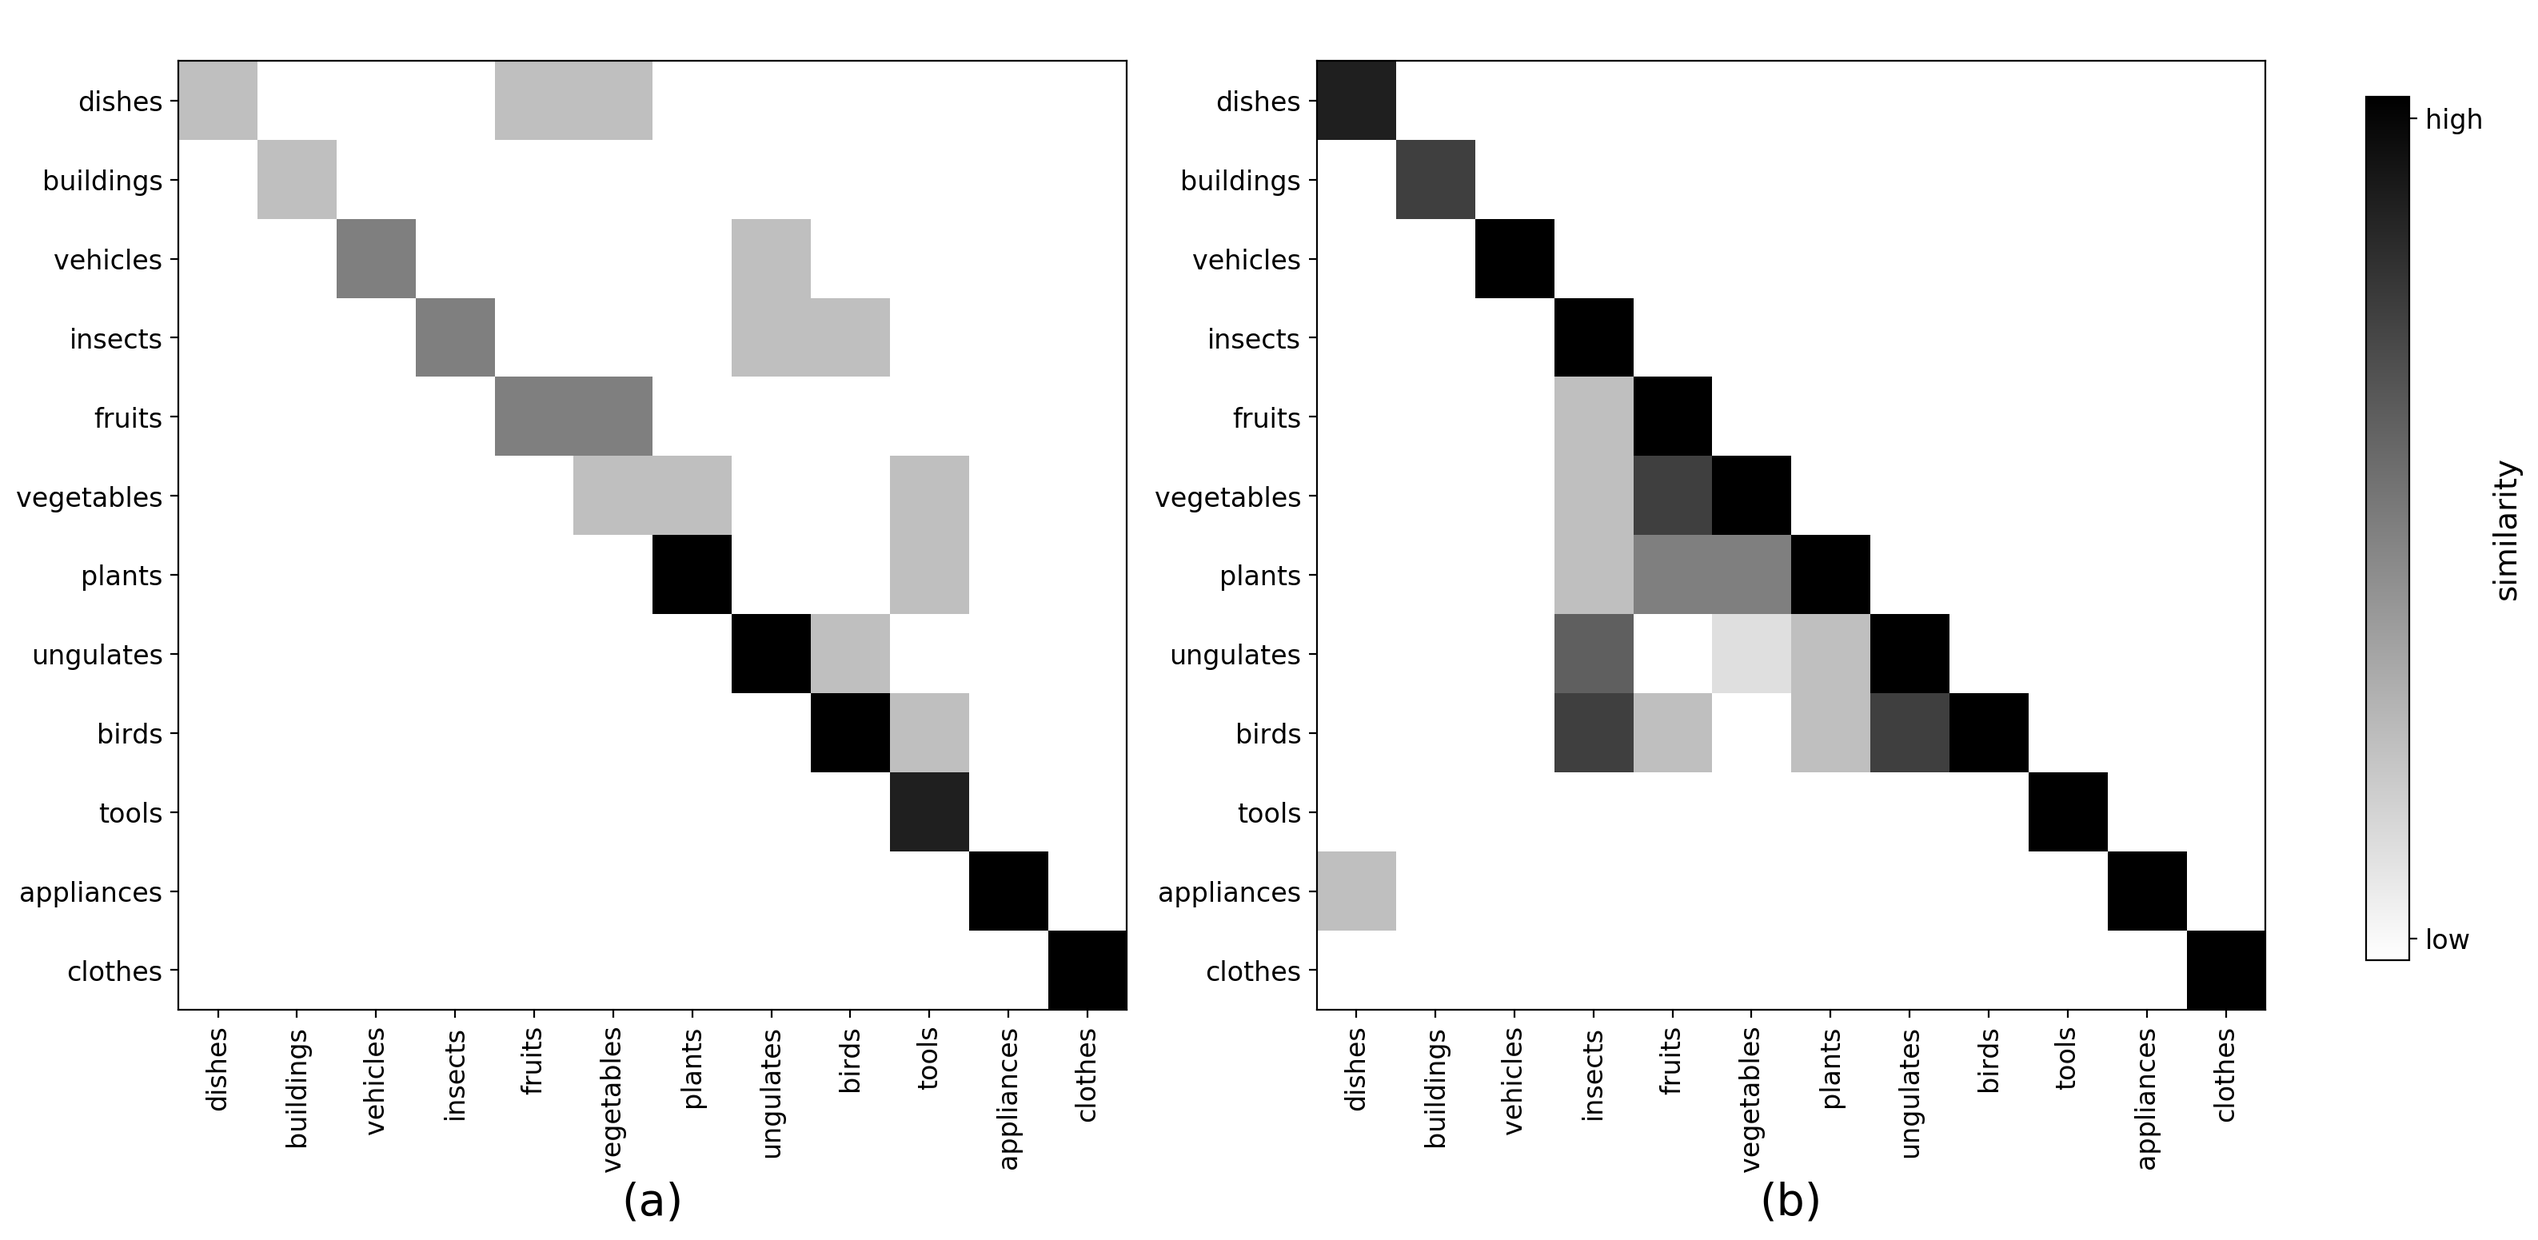
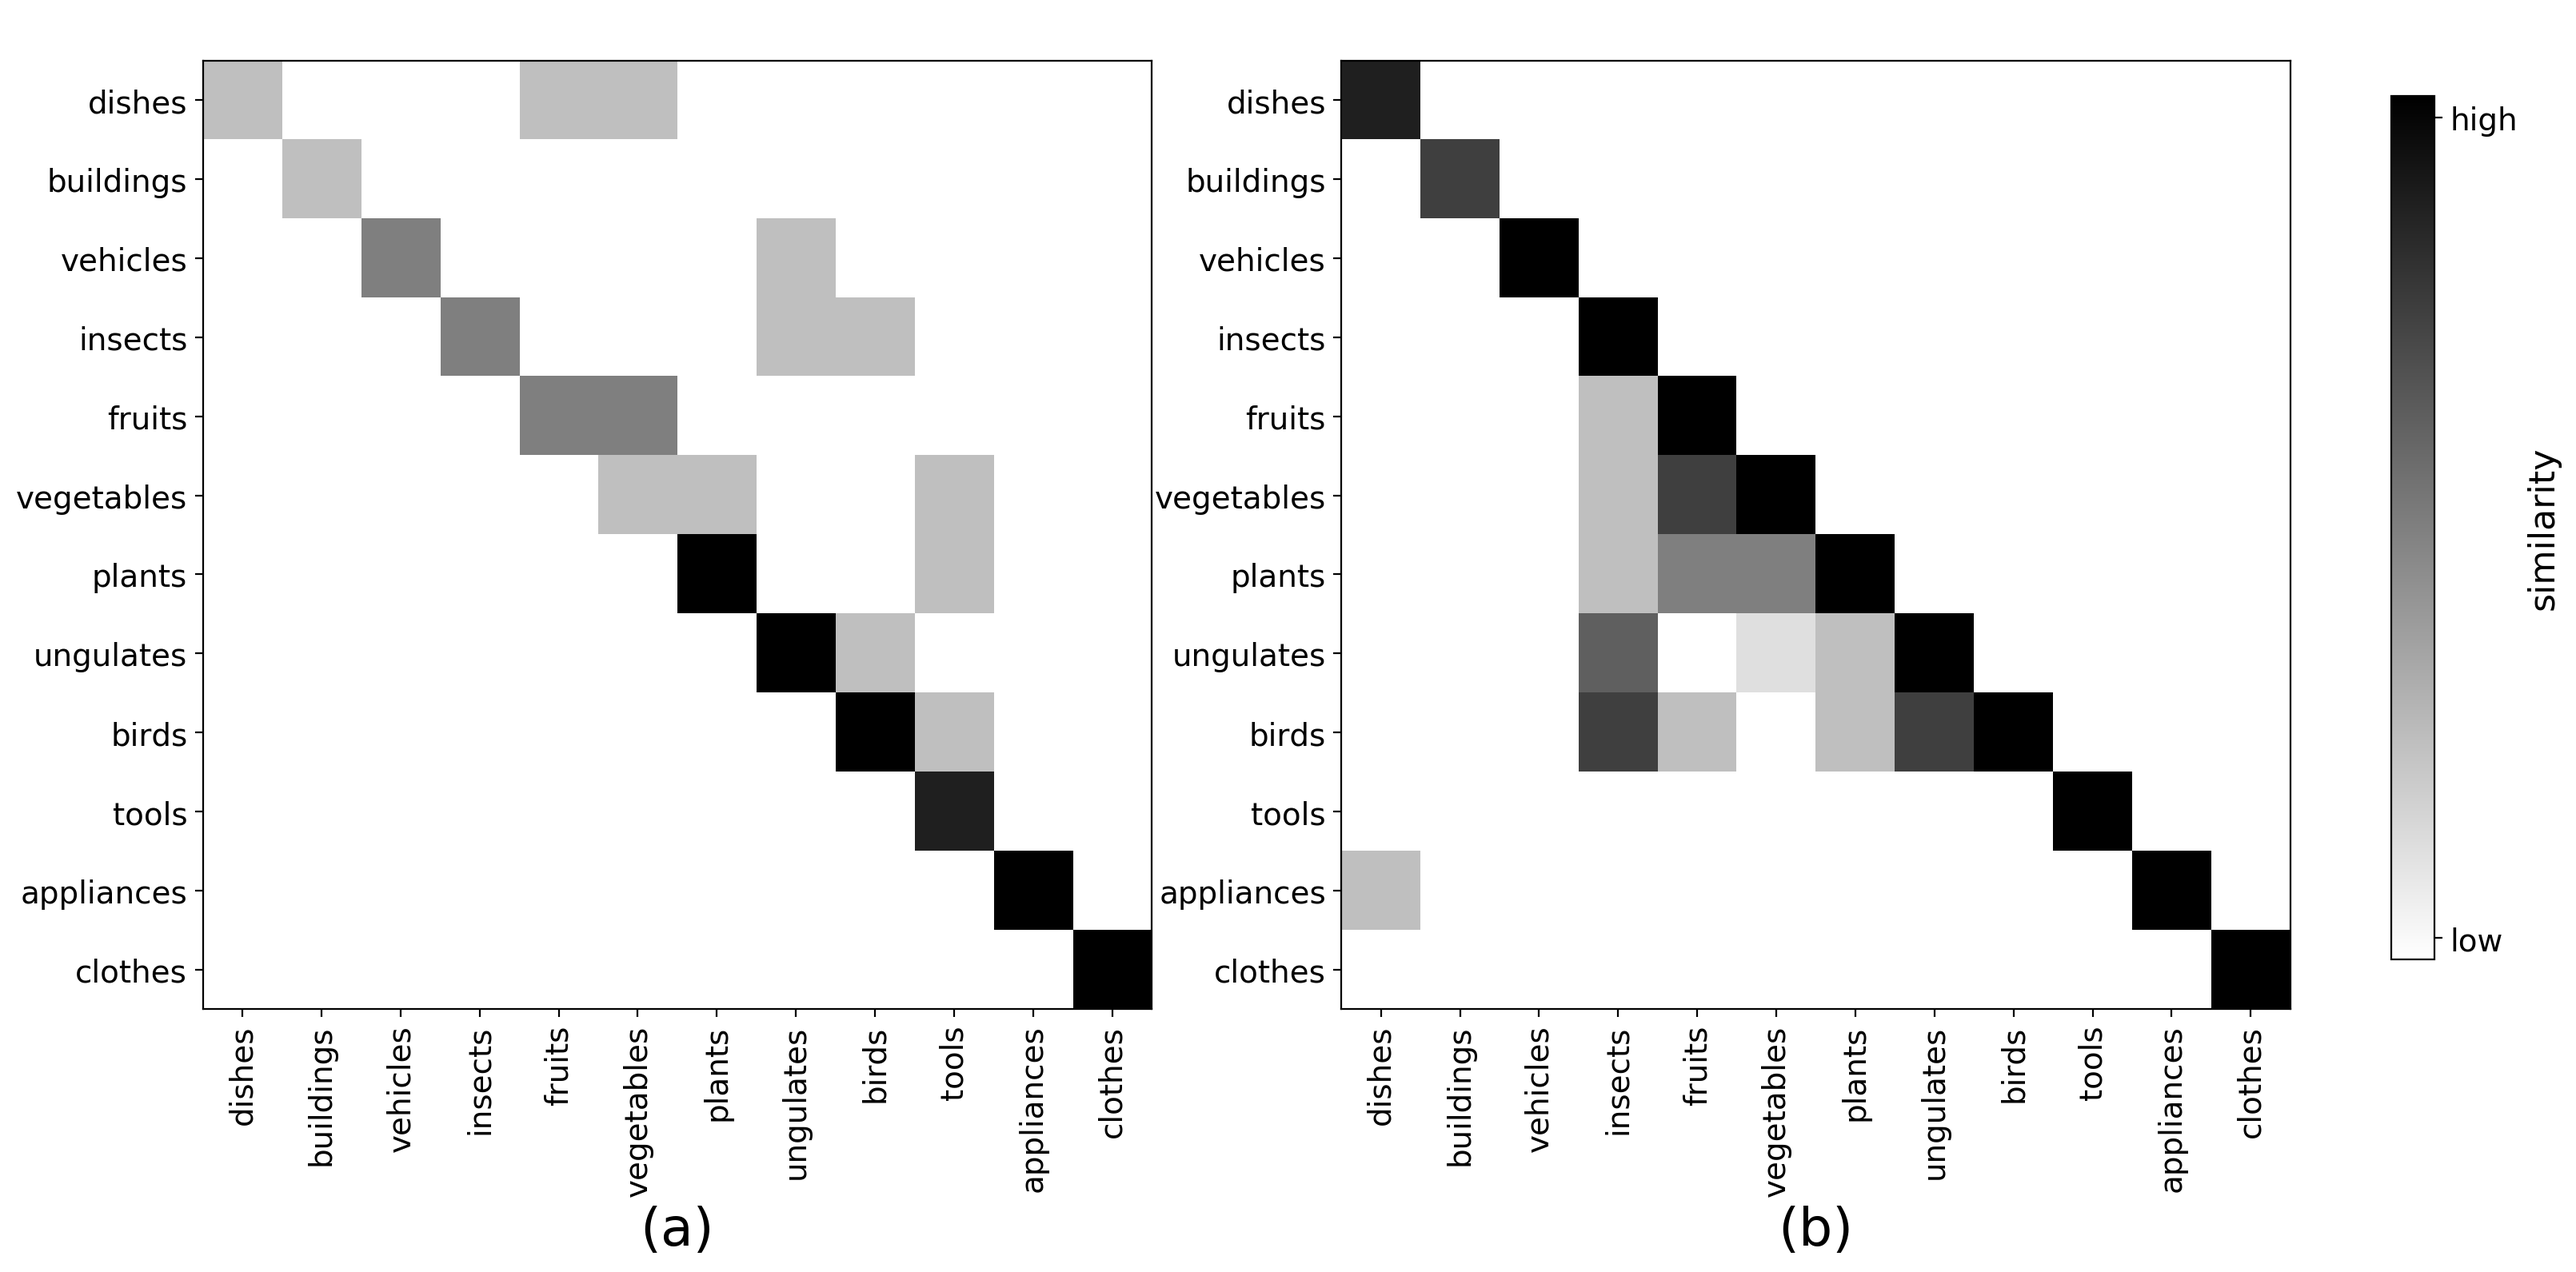
added option of using dissimilarities to plot_similarity_matrices.py

diff --git a/code/mds/data_analysis/plot_similarity_matrices.py b/code/mds/data_analysis/plot_similarity_matrices.py
@@ -17,6 +17,7 @@ parser.add_argument('second_similarity_file', help = 'the input file containing 
 parser.add_argument('output_folder', help = 'the folder where the plots will be stored')
 parser.add_argument('-f', '--first_name', help = 'name of the first set of similarity ratings', default = 'first study')
 parser.add_argument('-s', '--second_name', help = 'name of the second set of similarity ratings', default = 'second study')
+parser.add_argument('-d', '--dissimilarities', action = 'store_true', help = 'use dissimilarities instead of similarities for the scatter plot')
 args = parser.parse_args()
 
 # merge the two given matrices
@@ -105,8 +106,8 @@ ax_cats_second = fig_cats.add_subplot(121)
 ax_cats_first = fig_cats.add_subplot(122)
 
 # add heatmaps for category matrices
-make_heatmap(ax_cats_first, category_matrix_first, category_names)
-make_heatmap(ax_cats_second, category_matrix_second, category_names)
+make_heatmap(ax_cats_first, category_matrix_first, category_names, 14)
+make_heatmap(ax_cats_second, category_matrix_second, category_names, 14)
 
 ax_cats_second.set_xlabel("(a)", fontsize = 24)
 ax_cats_first.set_xlabel("(b)", fontsize = 24)
@@ -122,6 +123,11 @@ output_file_name_heatmap_cats = os.path.join(args.output_folder, 'heatmap_{0}_{1
 fig_cats.savefig(output_file_name_heatmap_cats, bbox_inches='tight', dpi=200)
 
 
+# replace item matrix with dissimilarities if necessary!
+if args.dissimilarities:
+    first_item_matrix = first_input_data['dissimilarities']
+    second_item_matrix = second_input_data['dissimilarities']
+
 # transform item-based similarity matrices into vectors for scatter plot
 first_vector = np.reshape(first_item_matrix, (-1,1)) 
 second_vector = np.reshape(second_item_matrix, (-1,1)) 
@@ -136,9 +142,14 @@ ax.tick_params(axis="x", labelsize=16)
 ax.tick_params(axis="y", labelsize=16)
 ax.scatter(u[:,0],u[:,1],s = s(c))
 
-plt.xlabel('{0} Similarity'.format(args.first_name), fontsize = 20)
-plt.ylabel('{0} Similarity'.format(args.second_name), fontsize = 20)
-plt.title('Scatter Plot of {0} and {1} Similarity'.format(args.first_name, args.second_name), fontsize = 20)
+if args.dissimilarities:
+    plt.xlabel('{0} Dissimilarity'.format(args.first_name), fontsize = 20)
+    plt.ylabel('{0} Dissimilarity'.format(args.second_name), fontsize = 20)
+    plt.title('Scatter Plot of {0} and {1} Dissimilarity'.format(args.first_name, args.second_name), fontsize = 20)
+else:
+    plt.xlabel('{0} Similarity'.format(args.first_name), fontsize = 20)
+    plt.ylabel('{0} Similarity'.format(args.second_name), fontsize = 20)
+    plt.title('Scatter Plot of {0} and {1} Similarity'.format(args.first_name, args.second_name), fontsize = 20)
 
 # store the overall scatter plot
 output_file_name_scatter = os.path.join(args.output_folder, 'scatter_{0}_{1}.png'.format(args.first_name, args.second_name))        

diff --git a/README.md b/README.md
@@ -285,13 +285,14 @@ Here, `conceptual.pickle` and `visual.pickle` are the corresponding output files
 
 #### 2.2.4 Creating Visualizations of the Similarity Matrices
 
-In order to visualize the similarity matrices, one can use the script `plot_similarity_matrices.py`. This script compares two sets of aggregated similarity ratings, given as `first.pickle` and `second.pickle` (output of `aggregate_similarities.py`). It creates one item-based heatmap (below diagonal: first set of similarities, above diagonal: second set of similarities) and two category-based heatmaps (same structure), and stores them as a single image `output_folder/heatmap_First_Second.png`. Moreover, it creates a scatter plot of the values in the two matrices and stores them as `output_folder/scatter_First_Second.png`. The script can be invoked as follows:
+In order to visualize the similarity matrices, one can use the script `plot_similarity_matrices.py`. This script compares two sets of aggregated similarity ratings, given as `first.pickle` and `second.pickle` (output of `aggregate_similarities.py`). It creates one item-based heatmap (below diagonal: first set of similarities, above diagonal: second set of similarities) and two category-based heatmaps (same structure), and stores them as a two separate images `output_folder/heatmap_First_Second_items.png` and `output_folder/heatmap_First_Second_categories.png`. Moreover, it creates a scatter plot of the values in the two matrices and stores them as `output_folder/scatter_First_Second.png`. The script can be invoked as follows:
 ```
 python -m code.mds.preprocessing.plot_similarity_matrices path/to/first.pickle path/to/second.pickle path/to/output_folder/
 ```
 It takes the following optional arguments:
 - `-f` or `--first_name`: Descriptive name for the first set of similarities (defaults to 'First').
 - `-s` or `--second_name`: Descriptive name for the second set of similarities (defaults to 'Second').
+- `-d` or `--dissimilarities`: Use the dissimilarity matrix (instead of the similarity matrix) for making the scatter plot. Does not affect the heatmaps.
 
 
 ### 2.3 Creating Similarity Spaces
